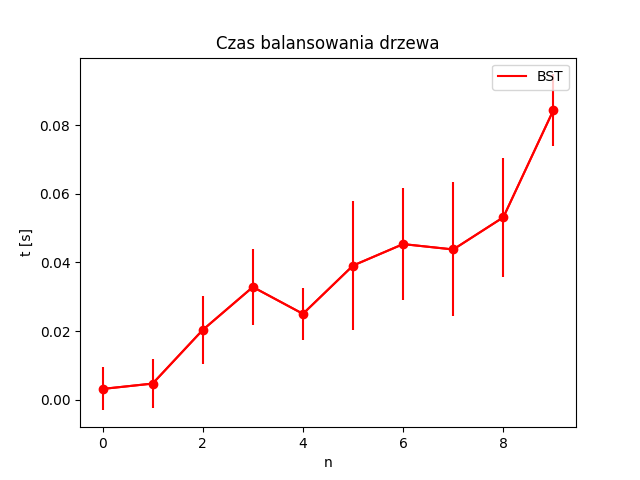
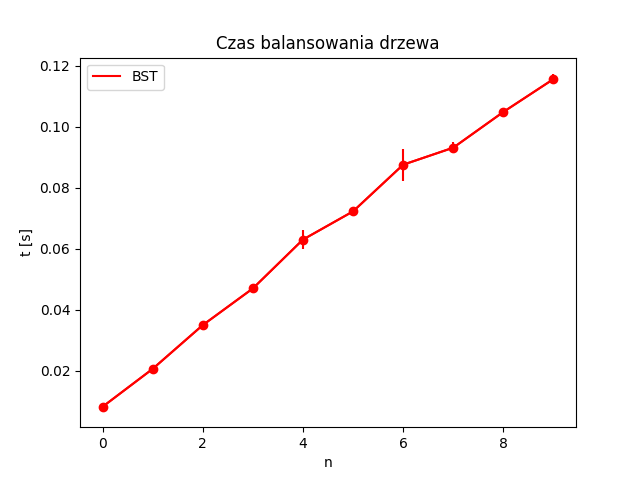
plots

diff --git a/hoduje_las/measure.py b/hoduje_las/measure.py
@@ -75,9 +75,8 @@ def measure_arr(func, dec_arr):
 def measure(func, root):
     arr = []
     for i in range(10):
-        tmp = copy.deepcopy(root)
         start_time = process_time()
-        func(tmp)
+        func(root)
         end_time = process_time()
         arr.append(end_time-start_time)
     return np.mean(arr), np.std(arr)
@@ -86,24 +85,24 @@ decreasing_arr = [decreasing(k[i]) for i in range(len(k))]
 random_arrs = [random_arr(k[i]) for i in range(len(k))]
 df_measured_times = pd.DataFrame()
 
-for r_arr in random_arrs:
-    root = funcs_arr["Tworzenie drzewa BST"](r_arr)
-    t_BST, std_BST = measure(balance, root)
-    temp_df = pd.DataFrame({"Balansowanie drzewa BST": [t_BST], "std_BST":[std_BST]})
-    df_measured_times = pd.concat([df_measured_times, temp_df])
-#arr arguments functions
-# for  m_arr in decreasing_arr:
-#     root = funcs_arr["Tworzenie drzewa BST"](m_arr)
-#     t_BST, std_BST = measure(inOrder, root)
-#     temp_arr = [*m_arr]
-#     temp_arr.sort()
-#     root2 = funcs_arr["Tworzenie drzewa AVL"](temp_arr)
-#     t_AVL, std_AVL = measure_arr(inOrder, root2)
-#     temp_df = pd.DataFrame({"Tworzenie drzewa AVL": [t_AVL], "Tworzenie drzewa BST": [t_BST], "std_BST":[std_BST], "std_AVL": [std_AVL]})
+# for r_arr in random_arrs:
+#     root = funcs_arr["Tworzenie drzewa BST"](r_arr)
+#     t_BST, std_BST = measure(balance, root)
+#     temp_df = pd.DataFrame({"Balansowanie drzewa BST": [t_BST], "std_BST":[std_BST]})
 #     df_measured_times = pd.concat([df_measured_times, temp_df])
-#     df_measured_times.reset_index(drop=True)
+#arr arguments functions
+for  m_arr in decreasing_arr:
+    root = funcs_arr["Tworzenie drzewa BST"](m_arr)
+    t_BST, std_BST = measure(inOrder, root)
+    temp_arr = [*m_arr]
+    temp_arr.sort()
+    root2 = funcs_arr["Tworzenie drzewa AVL"](temp_arr)
+    t_AVL, std_AVL = measure_arr(inOrder, root2)
+    temp_df = pd.DataFrame({"Tworzenie drzewa AVL": [t_AVL], "Tworzenie drzewa BST": [t_BST], "std_BST":[std_BST], "std_AVL": [std_AVL]})
+    df_measured_times = pd.concat([df_measured_times, temp_df])
+    df_measured_times.reset_index(drop=True)
 
-df_measured_times.to_csv('measured_balance.csv')
+df_measured_times.to_csv('measured_inorder.csv')
 
 
 

diff --git a/hoduje_las/plots.py b/hoduje_las/plots.py
@@ -2,18 +2,18 @@ import pandas as pd
 import matplotlib.pyplot as plt
 import seaborn as sns
 
-data = pd.read_csv('./measured_balance.csv')
+data = pd.read_csv('./measured_inorder.csv')
 
 
 
 plt.figure()
 
-# plt.plot(data['Tworzenie drzewa AVL'], color='b')
-# plt.errorbar(data.index,data['Tworzenie drzewa AVL'], data['std_AVL'],marker='o', color='b')
-plt.plot(data['Balansowanie drzewa BST'], color='r')
-plt.errorbar(data.index,data['Balansowanie drzewa BST'], data['std_BST'],marker='o', color='r')
+plt.plot(data['Tworzenie drzewa AVL'], color='b')
+plt.errorbar(data.index,data['Tworzenie drzewa AVL'], data['std_AVL'],marker='o', color='b')
+plt.plot(data['Tworzenie drzewa BST'], color='r')
+plt.errorbar(data.index,data['Tworzenie drzewa BST'], data['std_BST'],marker='o', color='r')
 plt.xlabel("n")
 plt.ylabel("t [s]")
-plt.title("Czas balansowania drzewa")
+plt.title("Czas inorder")
 plt.legend(['BST'])
 plt.show()
